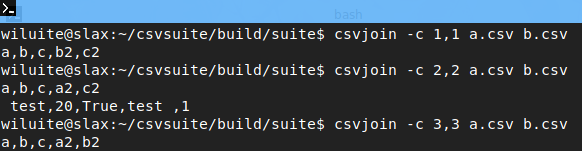
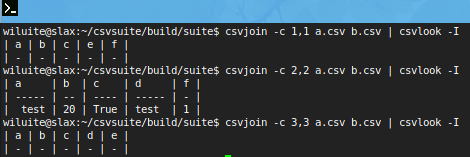
README update.

diff --git a/README.md b/README.md
@@ -236,26 +236,21 @@ the _xsv_, whose results are incorrect, although they are mind-blowingly fast.
 Despite the _xsv_'s enormous performance in all previous tests (in many tests not shown, the _xsv_ simply outperforms
 the _csvsuite_ by many-many times), it doesn't do everything right. Let's criticize it a little more.
 
-File a.csv
->a,b,c<br>
->" test",20,1
+Suppose we have got two CSV files: a.csv and b.csv:
 
-File b.csv
->d,e,f<br>
->"test ",2e1,1<br>
->,,string
+<img src="./img/a_and_b.png" alt="image info" height="143" width="367" />
 
 Correct join results for each of the pairwise columns:
 
-<img alt="image info" height="151" src="./img/join_checks.png" width="582"/>
+<img alt="image info" height="157" src="./img/join_checks.png" width="470"/>
 
 And not such correct results in the case of the _xsv_:
 
-<img alt="image info" height="169" src="./img/join_checks_xsv.png" width="581"/>
+<img alt="image info" height="130" src="./img/join_checks_xsv.png" width="473"/>
 
 In the first case, the _xsv_ ignores the spaces to the left and right of the significant part of the fields, resulting
 in the equality of two unequal values.<br>
-In the second case, it does not define the numeric values 20 and 2e1 as equal.<br>
+In the second case, it does not detect the numeric values 20 and 2e1 as equal.<br>
 In the third case, it considers the pairwise values of “1” to be identical, ignoring the type of the third
 column of the second file as text. When it becomes erroneous to compare numeric values with the numeric values of the
 third column of the first file.
